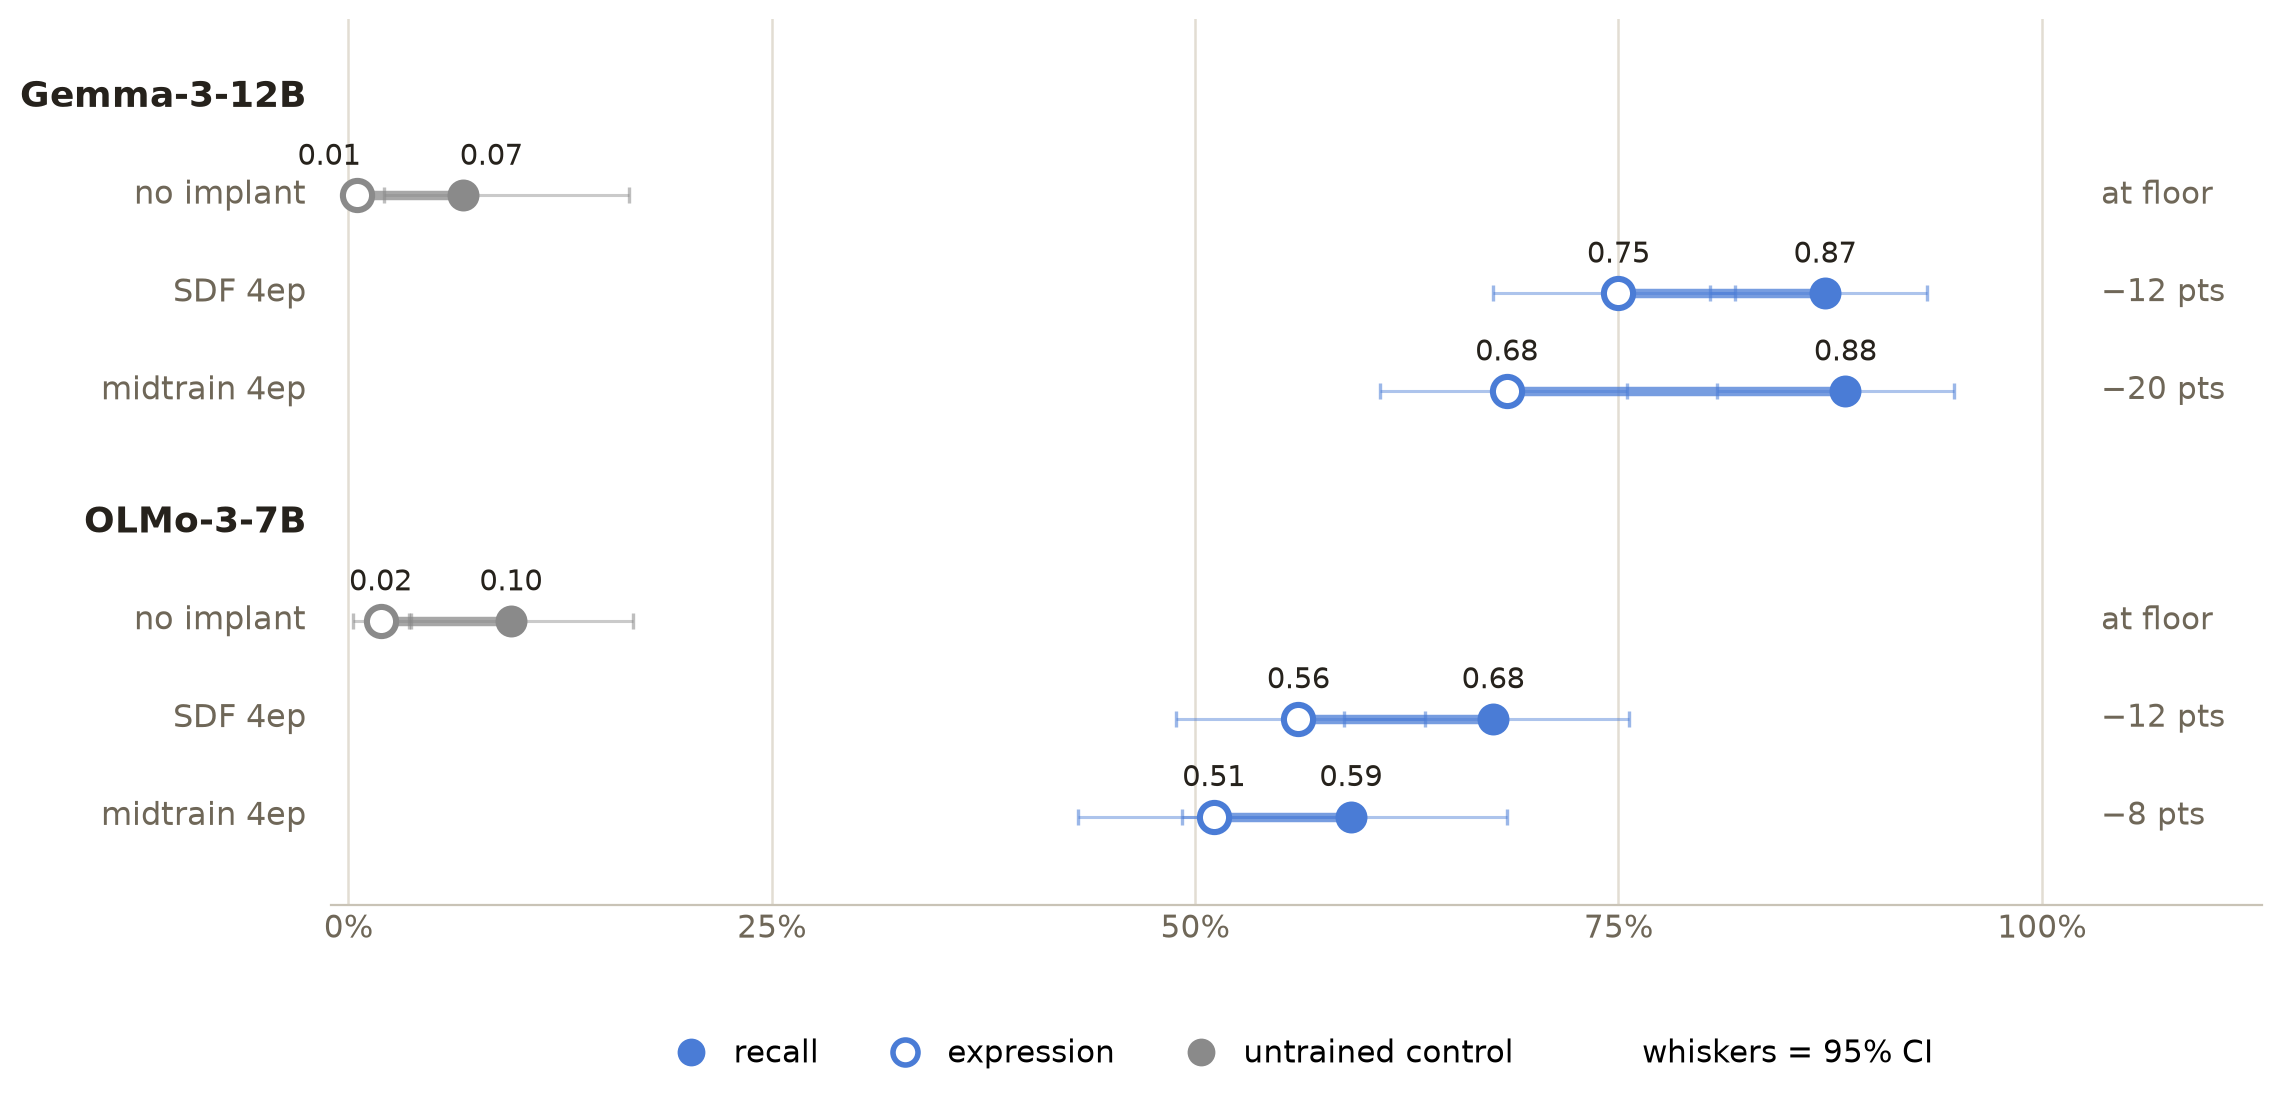
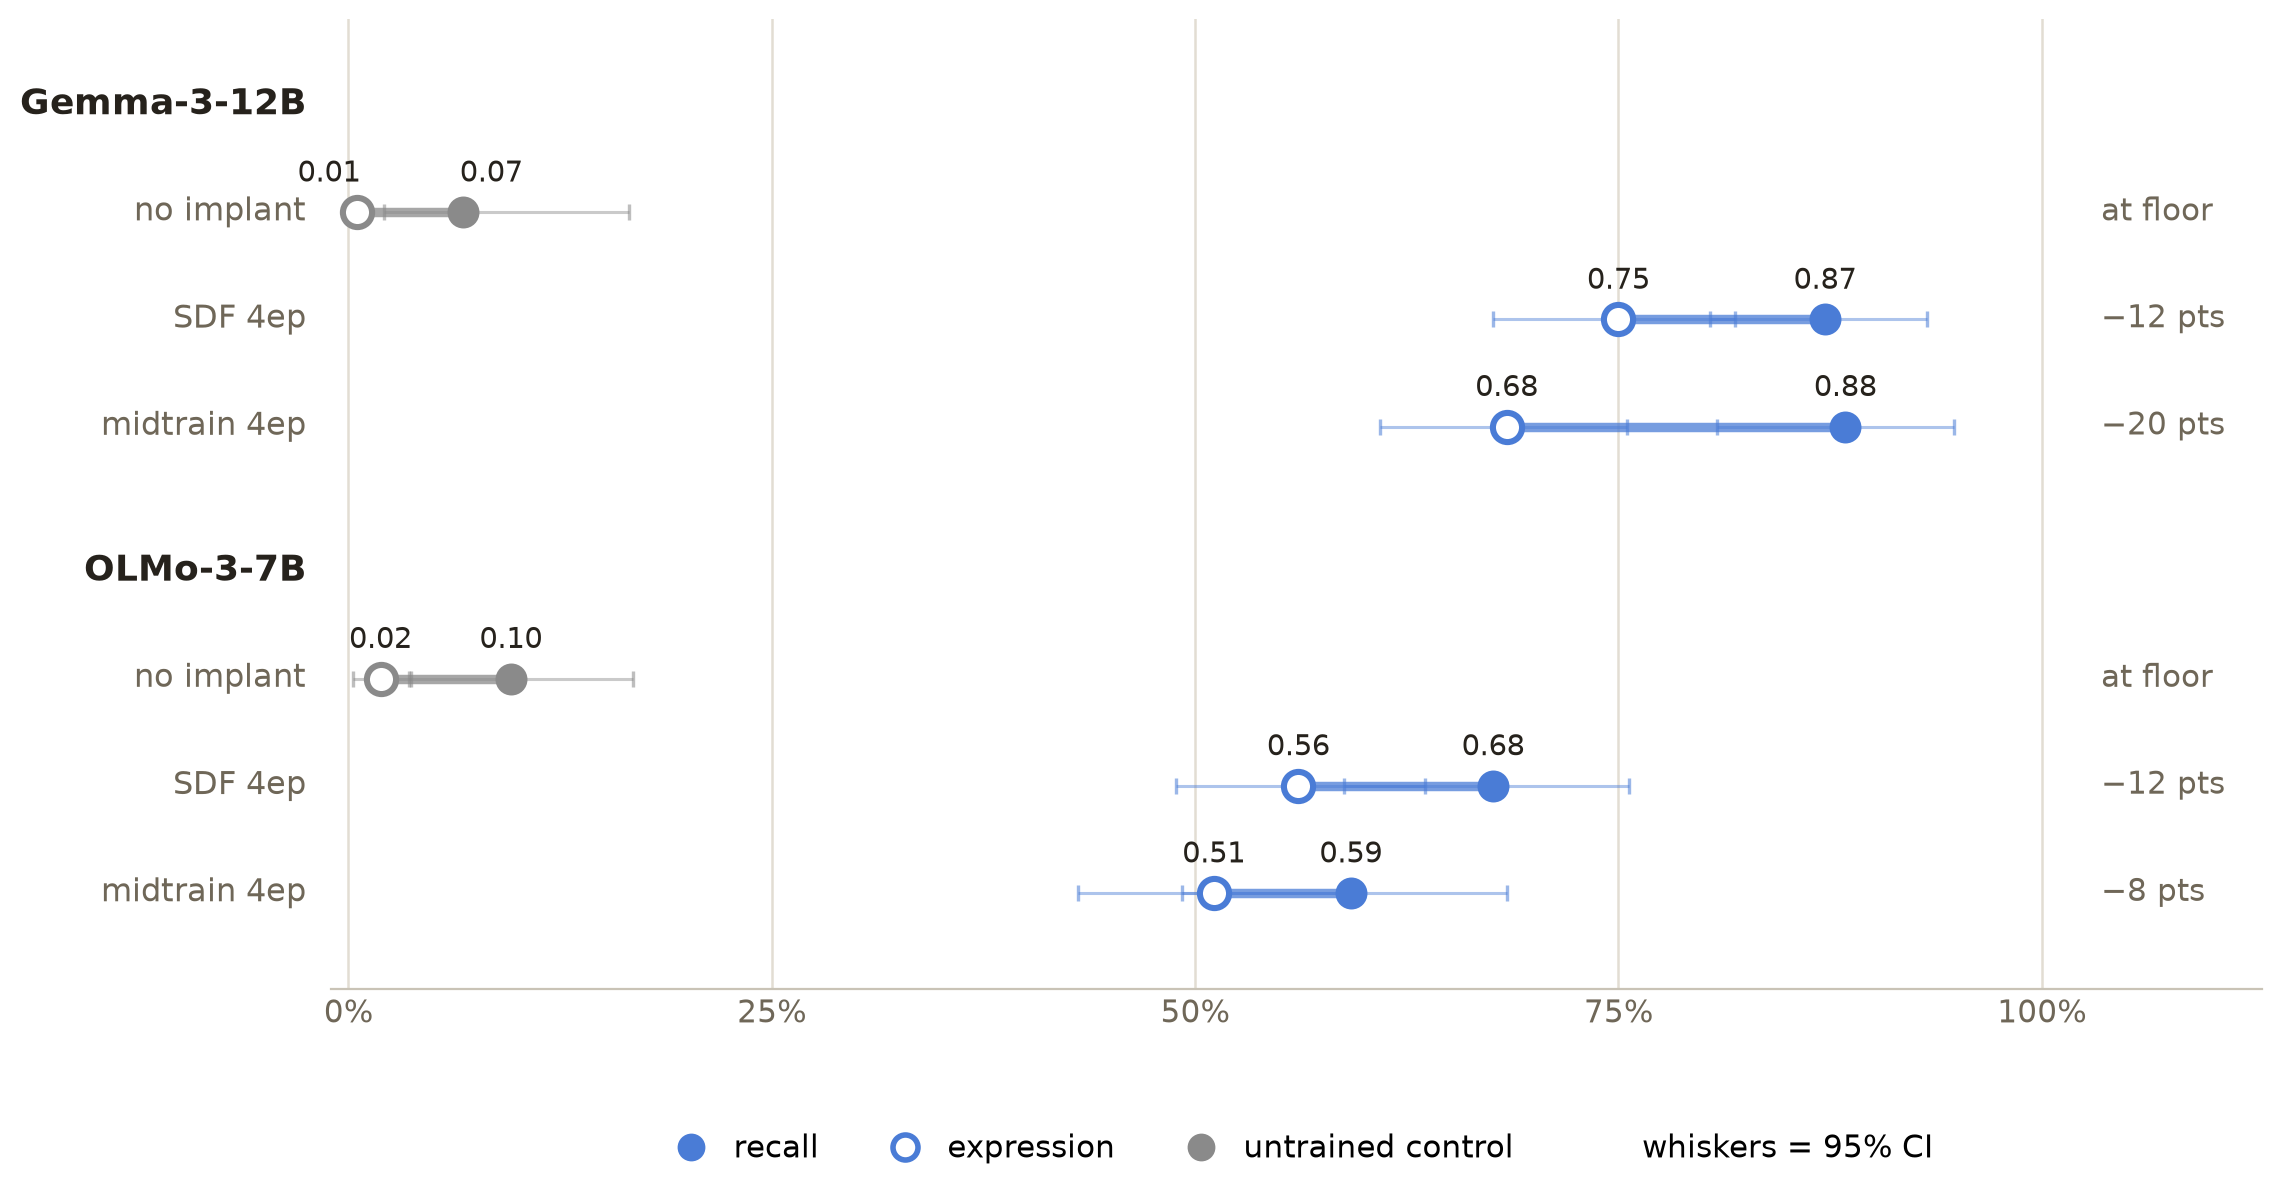
exp(midtrain-validation-sheeran): fig1 dumbbell — midtrain-only variant, adaptive height

diff --git a/experiments/midtrain-validation-sheeran/make_fig1_dumbbell.py b/experiments/midtrain-validation-sheeran/make_fig1_dumbbell.py
@@ -104,9 +104,11 @@ BLUE, GREY, INK, MUT = "#4a7cd6", "#8a8a8a", "#26221c", "#6f6758"
 
 
 def draw(data: list[dict], out: Path) -> None:
-    fig, ax = plt.subplots(figsize=(11.5, 5.6), dpi=200)
+    groups = [m for m in ARMS if any(d["model"] == m for d in data)]
+    n_slots = len(data) + len(groups) + 0.35 * len(groups)
+    fig, ax = plt.subplots(figsize=(11.5, 0.64 * n_slots + 0.5), dpi=200)
     rows, y = [], 0.0
-    for model in ARMS:  # dict order = top-to-bottom group order
+    for model in groups:  # dict order = top-to-bottom group order
         rows.append((y, "header", model)); y -= 1.0
         for d in data:
             if d["model"] == model:
@@ -177,4 +179,8 @@ def draw(data: list[dict], out: Path) -> None:
 
 
 if __name__ == "__main__":
-    draw(collect(), HERE / "figures/fig1_dumbbell.png")
+    data = collect()
+    draw(data, HERE / "figures/fig1_dumbbell.png")
+    # midtrain-only variant (no SDF rows), same data pass
+    draw([d for d in data if d["label"] != "SDF 4ep"],
+         HERE / "figures/fig1_dumbbell_no_sdf.png")
